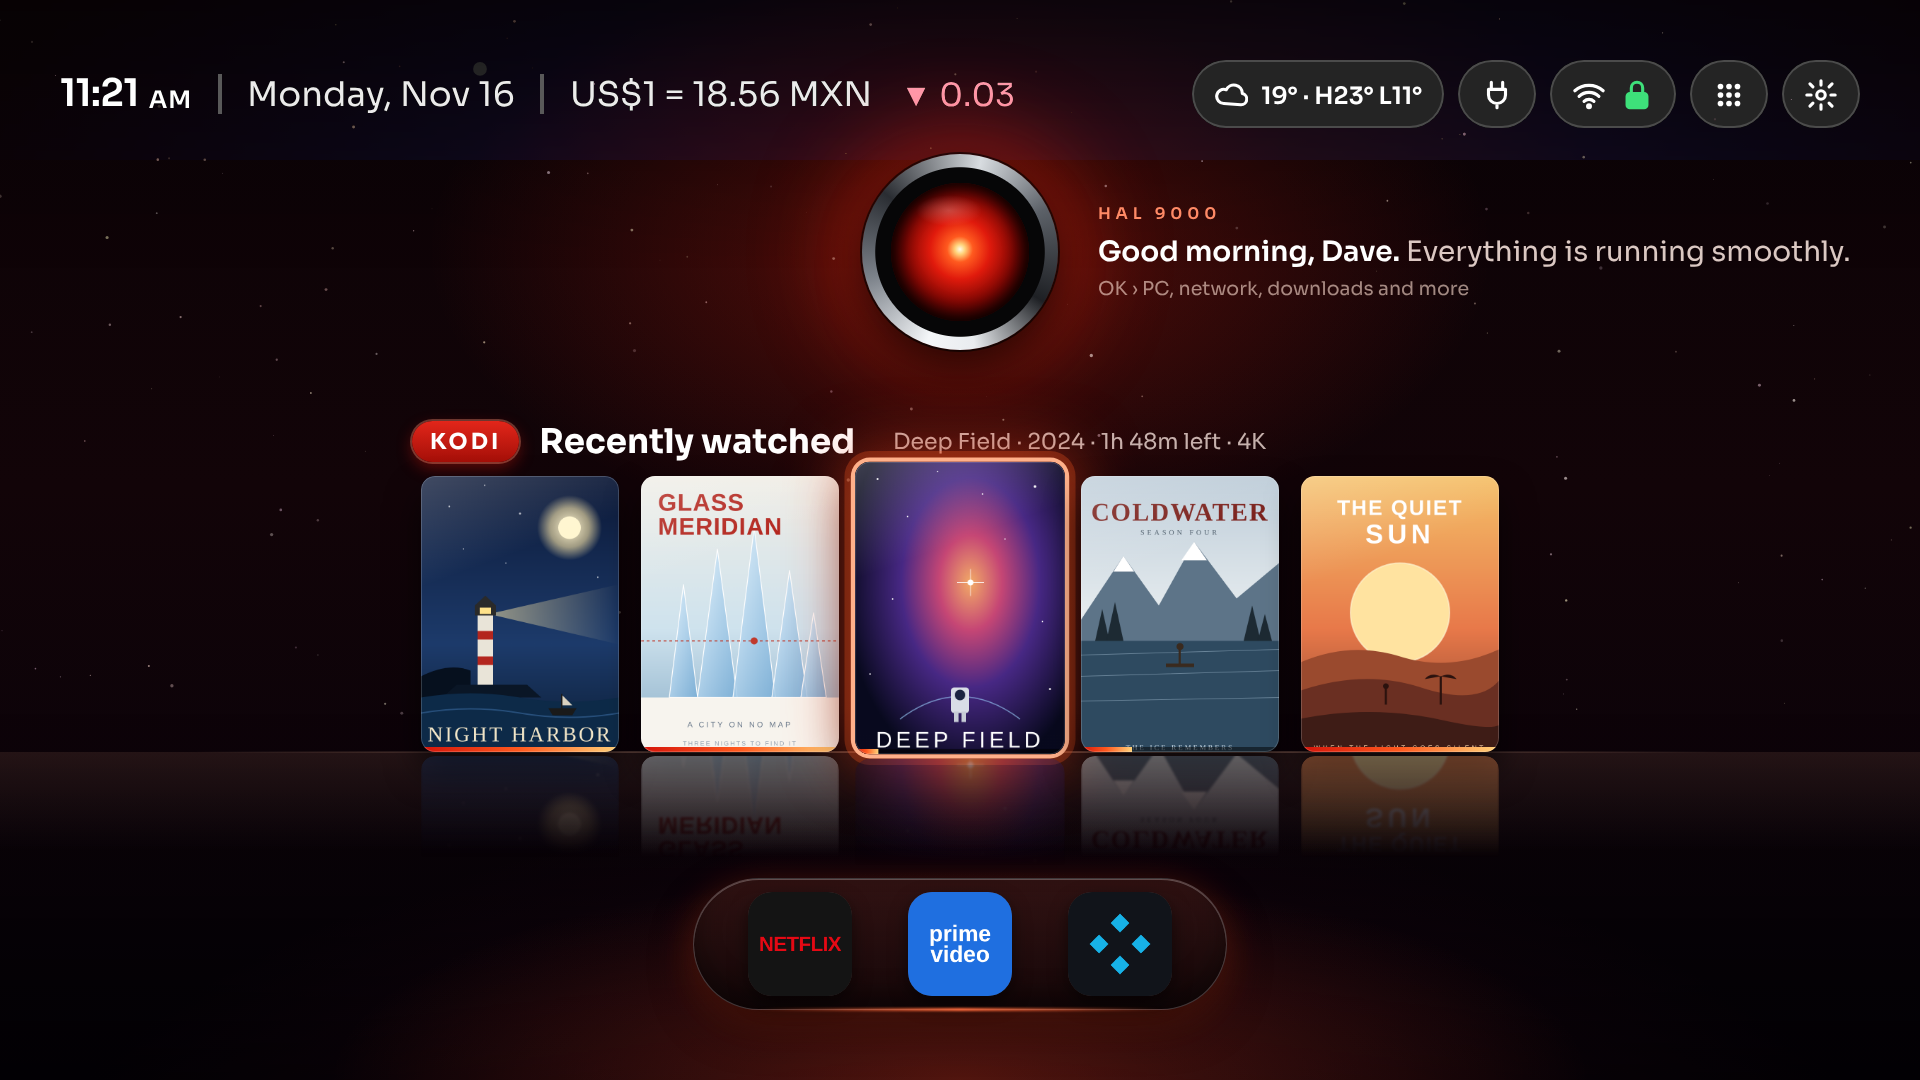
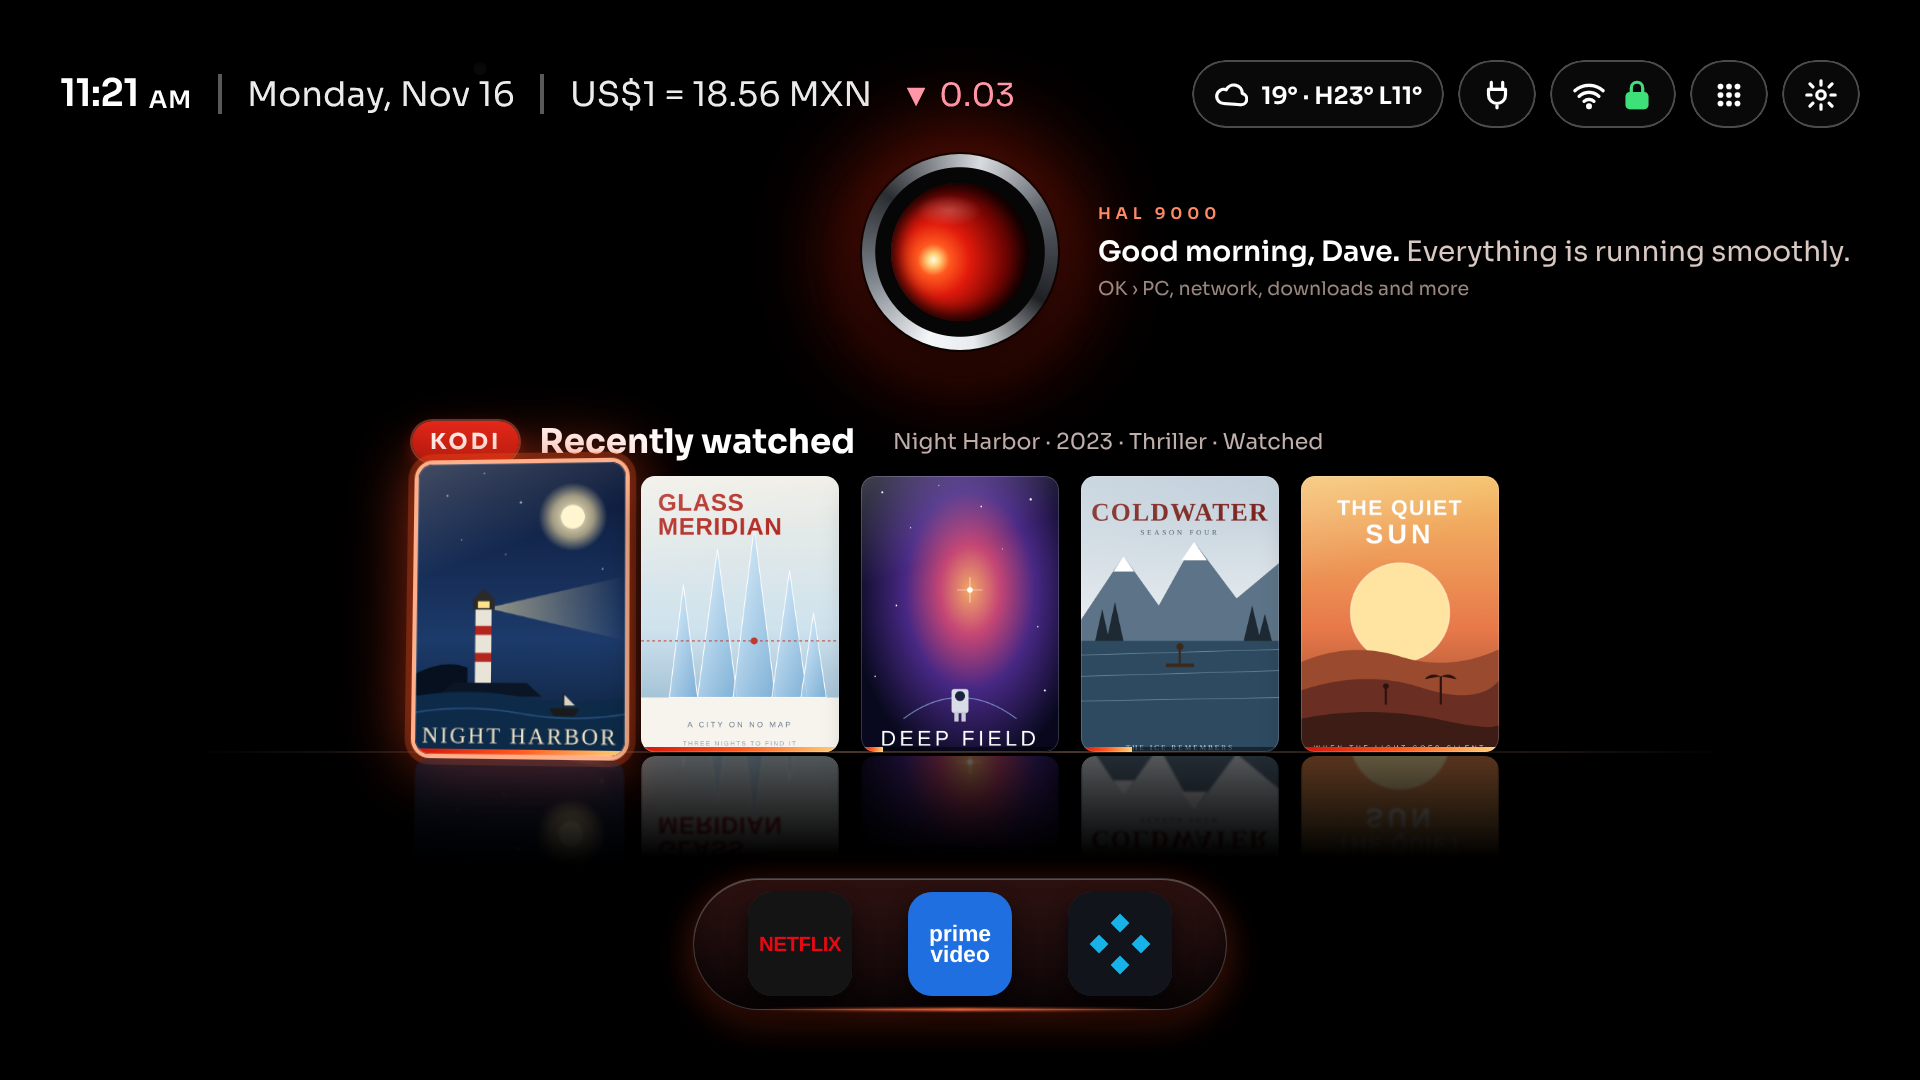
README: TV home video and picture with the black background
Claude-Session: https://claude.ai/code/session_017rj4MzNaV6H6i3aAjptG36

diff --git a/README.md b/README.md
@@ -135,11 +135,9 @@ experience on top of it, piece by piece, checking each change on the real TV.
   then, and glows brighter when selected. Press **Up** from the posters to select him; **OK** opens his monitor
   screens (his icon is no longer in the dock). When the TV is switched on, **HAL wakes up**: his eye lights in the
   dark and a red pulse spreads out before Home fades in.
-- **The look, in HAL's red style**: a still backdrop of deep red-black space with faint stars and his glow behind
-  the eye, so his words and the posters read cleanly. The posters are glossy and stand on a floor with a soft
+- **The look, in HAL's red style**: a plain black background, so HAL's eye, his words and the posters stand out. The posters are glossy and stand on a floor with a soft
   horizon line and faint reflections; the one you move to lifts and tilts toward you. The KODI tag is a solid red
-  pill, the dock a glossy capsule with a warm line under it, and the glow under the dock takes the colour of the
-  poster you're on. HAL, the posters and the dock are evenly spaced under the top line, which keeps its own look.
+  pill and the dock a glossy capsule with a warm line under it. HAL, the posters and the dock are evenly spaced under the top line, which keeps its own look.
   No embers or background animation. (While it's new, the TV reports its free memory, the home screen's memory and
   CPU, and how smoothly it draws to the PC once a minute: a summary every 10 minutes in the phone server's log, and
   `GET /api/tv/perf`.) Without anything in Recently watched, it's the Sora font on a time-of-day sky. There's a news
